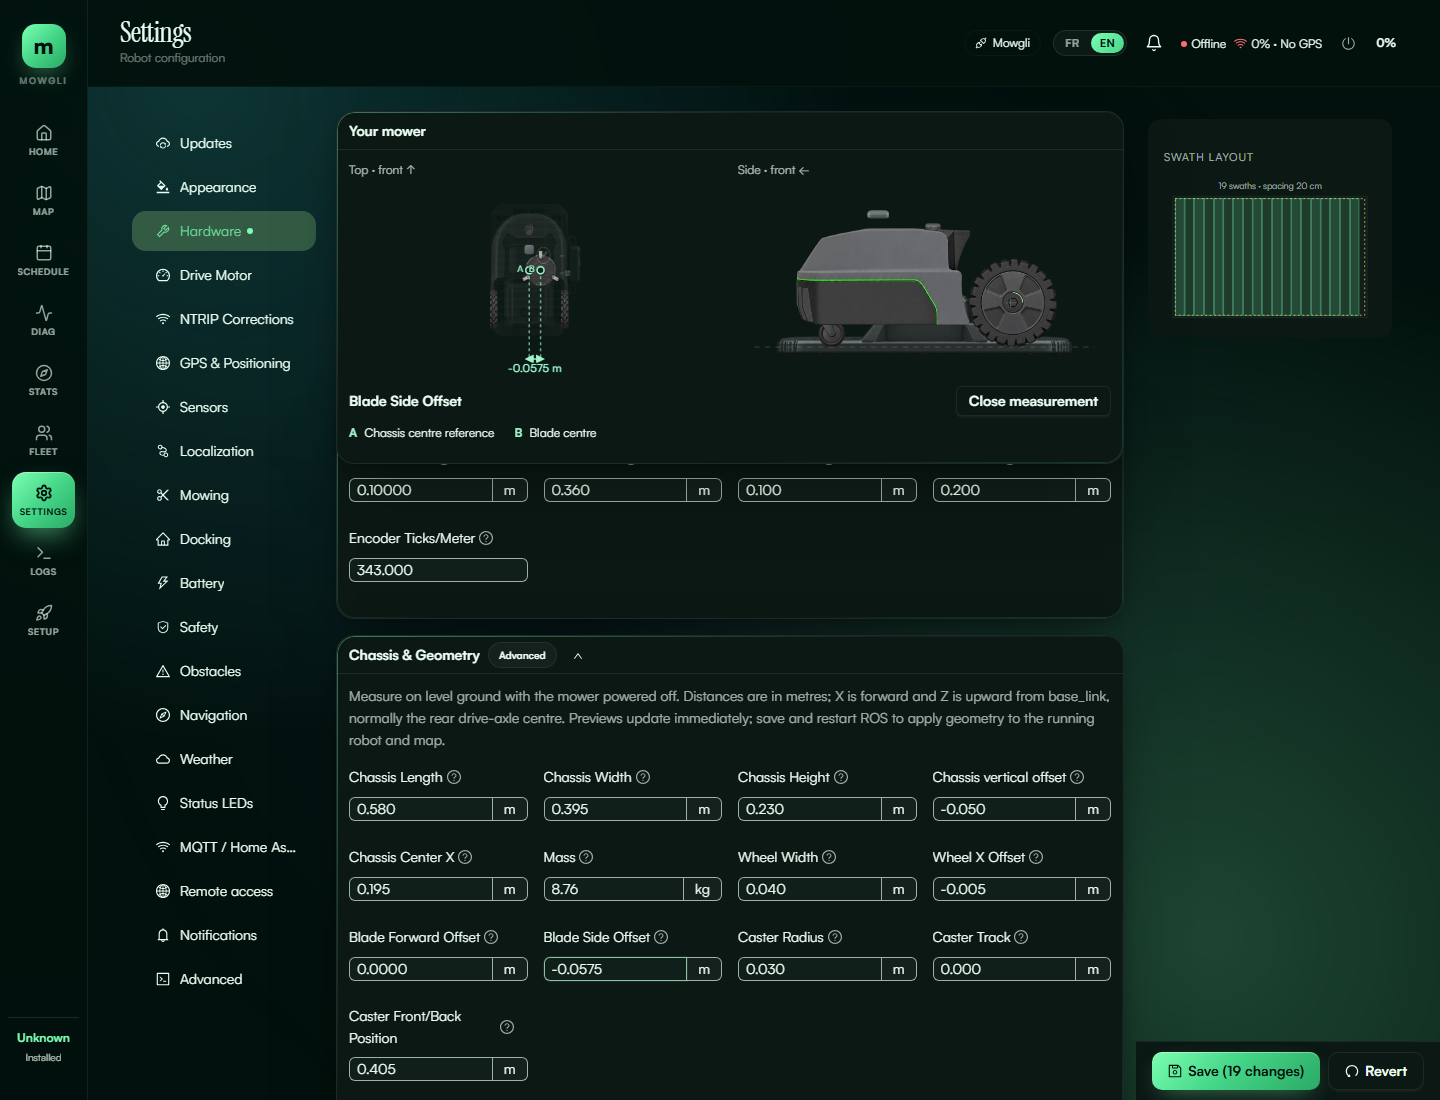
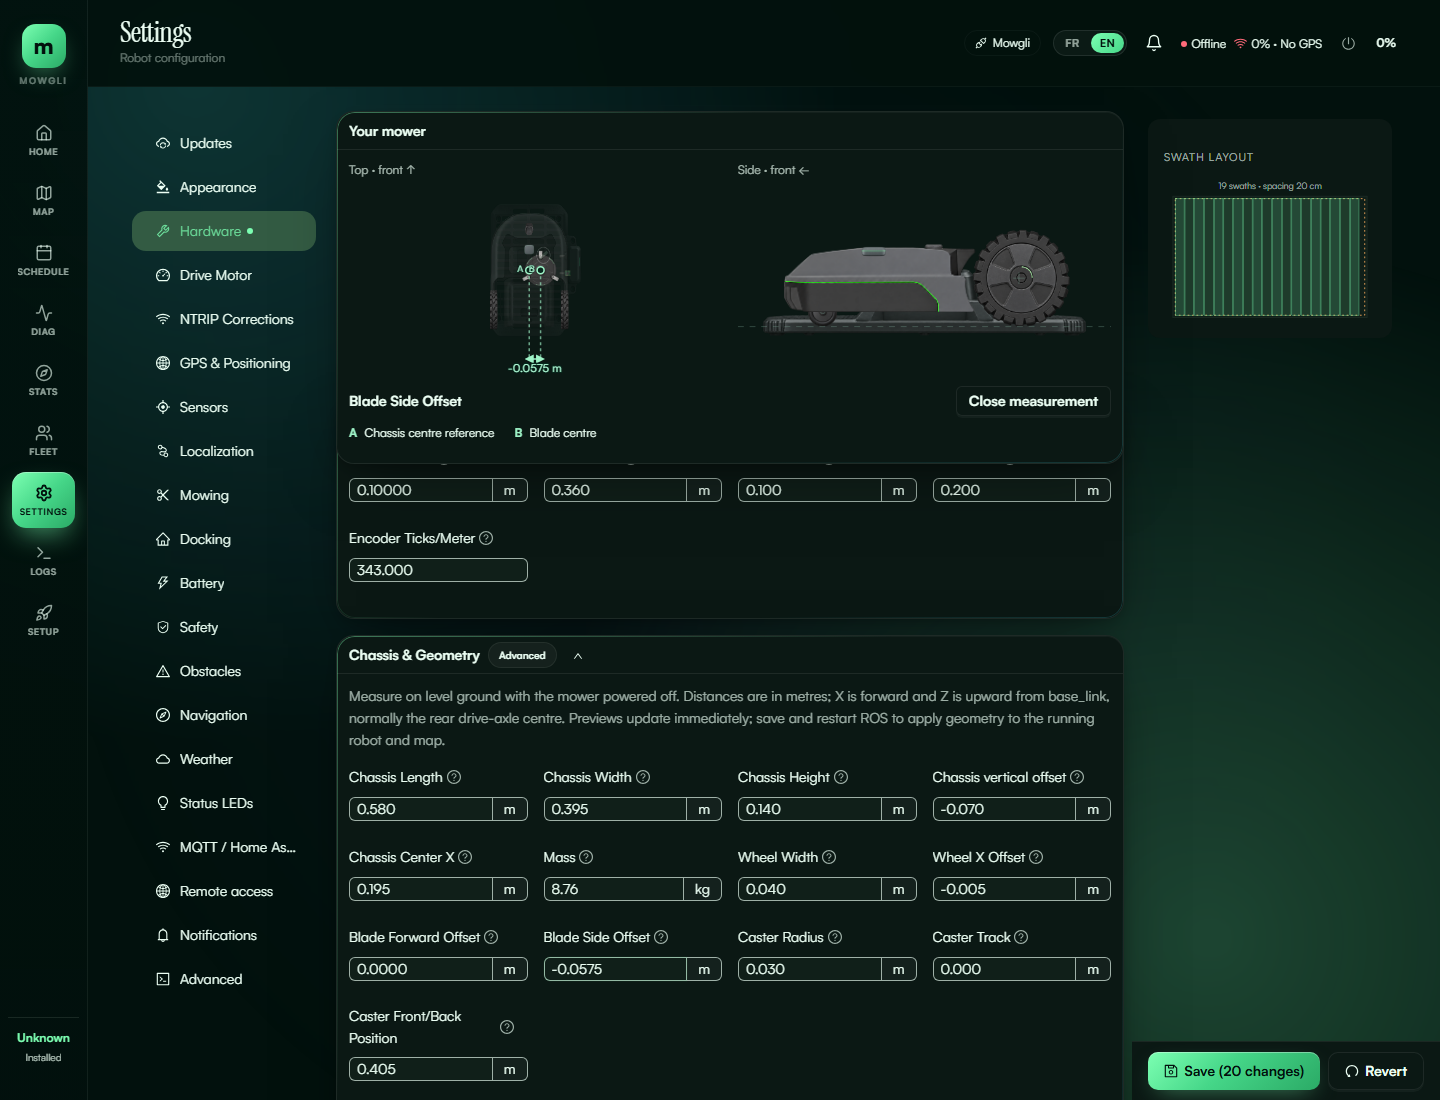
fix(gui): use shallow chassis defaults for WORX preset

Changed region(s): [[0.5312, 0.1855, 0.75, 0.34], [0.7812, 0.9582, 0.875, 1.0], [0.5312, 0.7109, 0.5625, 0.7418]]

diff --git a/gui/web/tests/e2e/wheel-presets.spec.ts b/gui/web/tests/e2e/wheel-presets.spec.ts
@@ -37,7 +37,7 @@ test("WORX 500M Plus applies supplied dimensions and blade origin, with its matc
     const writes:string[]=[];
     page.on("request",r=>{if(r.method()!=="GET" && !r.url().includes("/config/keys/get")) writes.push(r.url());});
     await installMockBackend(page,{name:"worx-preset",topics:{robotDescription:{data:ROBOT_URDF}},rest:{
-        "/api/settings/yaml":{mower_model:"CUSTOM",blade_x_offset:.04,blade_y_offset:0,lidar_enabled:false,chassis_z_offset:-.05,caster_x_offset:.4},
+        "/api/settings/yaml":{mower_model:"CUSTOM",blade_x_offset:.04,blade_y_offset:0,lidar_enabled:false,gps_z:.055,imu_z:0,chassis_z_offset:.02,caster_x_offset:.4},
     }});
     await page.goto("/#/settings?section=hardware");
     await page.getByRole("radio",{name:"WORX 500M Plus",exact:true}).click();
@@ -46,16 +46,19 @@ test("WORX 500M Plus applies supplied dimensions and blade origin, with its matc
     await expect(page.locator("#setting-wheel_track")).toHaveValue("0.360");
     await expect(page.locator("#setting-ticks_per_meter")).toHaveValue("343.000");
     await page.getByText("Chassis & Geometry",{exact:true}).click();
-    for(const [key,value] of Object.entries({chassis_length:"0.580",chassis_width:"0.395",chassis_height:"0.230",
+    for(const [key,value] of Object.entries({chassis_length:"0.580",chassis_width:"0.395",chassis_height:"0.140",
         chassis_center_x:"0.195",wheel_x_offset:"-0.005",caster_radius:"0.030",caster_track:"0.000",
         blade_x_offset:"0.0000",blade_y_offset:"-0.0575"}))
         await expect(page.locator("#setting-"+key)).toHaveValue(value);
     await expect(page.locator("#setting-caster_track")).toHaveAttribute("aria-valuemin","0");
     await expect(page.locator("#setting-caster_x_offset")).toHaveValue("0.405");
-    await expect(page.locator("#setting-chassis_z_offset")).toHaveValue("-0.050");
+    await expect(page.locator("#setting-chassis_z_offset")).toHaveValue("-0.070");
     await page.locator("#setting-blade_y_offset").click();
     const preview=page.getByTestId("mower-preview");
     await expect(preview.getByTestId("mower-top").locator('[data-mower-style]')).toHaveAttribute("data-mower-style","worx");
+    const sideShell=preview.getByTestId("mower-side").locator('[data-layer="shell-art"]');
+    await expect(sideShell).toHaveAttribute("height","0.14");
+    expect(Number(await sideShell.getAttribute("y"))).toBeCloseTo(-.07);
     await expect(preview.getByTestId("measurement-overlay")).toContainText("-0.0575 m");
     mkdirSync("screenshots.local/wheel-presets",{recursive:true});
     await page.screenshot({path:"screenshots.local/wheel-presets/worx-preset.png",fullPage:true});

diff --git a/gui/web/src/constants/mowerModels.ts b/gui/web/src/constants/mowerModels.ts
@@ -163,7 +163,9 @@ export const MOWER_MODELS: MowerModel[] = [
         // No battery, sensor or firmware calibration is inferred from this body model.
         defaults: {
             wheel_radius: 0.1, wheel_track: 0.36, wheel_x_offset: -0.005,
-            wheel_width: 0.04, chassis_height: 0.23, chassis_mass_kg: 8.76,
+            // Provisional shallow shell envelope from the reference photos/approved preview.
+            // The screenshot's 230 mm value was not a measured shell height.
+            wheel_width: 0.04, chassis_height: 0.14, chassis_z_offset: -0.07, chassis_mass_kg: 8.76,
             // Provisional front caster position: 50 mm tyre clearance from the front edge.
             caster_x_offset: 0.405, caster_radius: 0.03, caster_track: 0.0,
             blade_radius: 0.1, tool_width: 0.20, ticks_per_meter: 343,

diff --git a/docs/WHEEL_PRESET_DIMENSIONS.md b/docs/WHEEL_PRESET_DIMENSIONS.md
@@ -59,7 +59,7 @@ preset for a physical mower, record:
   wheel/caster positions against those measurements before any drive test. Recheck
   actual sensor heights after applying the model change.
 
-This PR is independent of the layered-artwork and dashboard-illustration PRs.
+The radius corrections are independent; the WORX preset below depends on #966.
 
 
 ## WORX 500M Plus preset
@@ -75,7 +75,8 @@ The robot serial, controller conversion, firmware, tyre variant and measuring me
 | Rear-wheel X offset | −5 mm | Supplied screenshot |
 | Caster radius / track | 30 / 0 mm | Supplied screenshot; central caster |
 | Caster X position | 405 mm | Provisional: places the tyre 50 mm inside the front edge, consistent with the other built-in presets; not measured |
-| Chassis length / width / height | 580 / 395 / 230 mm | Supplied screenshot |
+| Chassis length / width | 580 / 395 mm | Supplied screenshot |
+| Chassis shell height / bottom Z | 140 / −70 mm | Provisional shallow envelope from supplied photos and the earlier approved WORX preview; replaces the screenshot's unverified 230 mm height |
 | Chassis centre X | 195 mm | Supplied screenshot |
 | Mass | 8.76 kg | Screenshot value; not independently weighed |
 | Blade radius / tool width | 100 / 200 mm | Supplied screenshot |
@@ -87,7 +88,7 @@ With `wheel_x_offset = -0.005`, the blade is 200 mm ahead of the rear-wheel axle
 195 mm is the distance from **base_link**, not the axle. Positive Y is left, so right
 uses a negative value. Four decimal places preserve `-0.0575` exactly.
 
-The preset deliberately does not replace battery voltages, sensor mounts, chassis vertical offset,
+The preset deliberately does not replace battery voltages, sensor mounts,
 or firmware selection. They were not established by the supplied data;
 review those retained/defaulted values and the provisional caster X on the installed conversion. Selecting a body preset does not
 establish stock WORX mainboard compatibility. The matching appearance is the registered WORX shell
@@ -104,3 +105,5 @@ caster X on the actual robot. Then, blades removed and in a supervised clear tes
 accessible cutoff, validate ticks-per-metre against a measured travel distance using the drive
 calibration procedure before autonomous operation. The asymmetric cutting-tool clearance and
 coverage require a supervised field test; these software tests do not establish that behaviour.
+
+The shallow WORX default puts the shell bottom 30 mm above ground and its top 170 mm above ground with the 100 mm wheel radius. These are provisional model coordinates, not physical measurements. For acceptance on the exact unit/configuration/firmware baseline above, measure shell bottom/top relative to the rear axle with power isolated and blades removed; accept only if both agree within 5 mm, otherwise use measured overrides.
